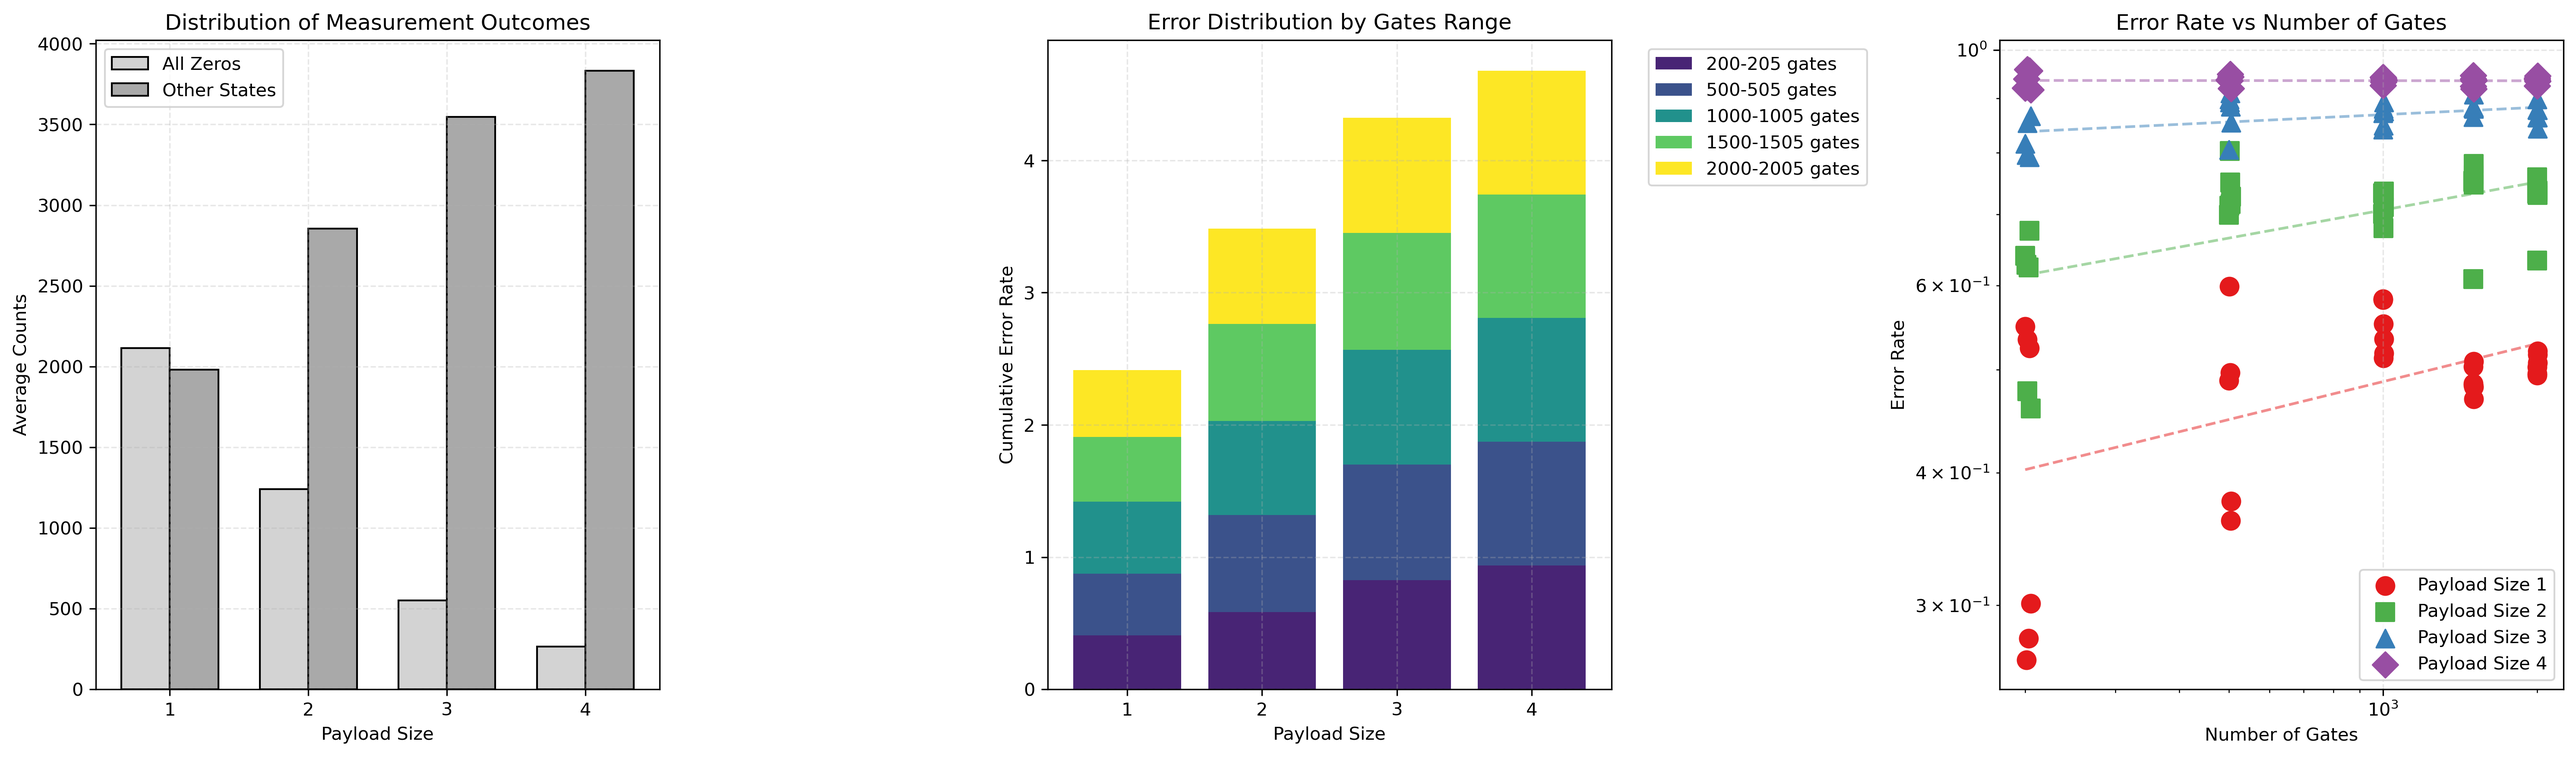
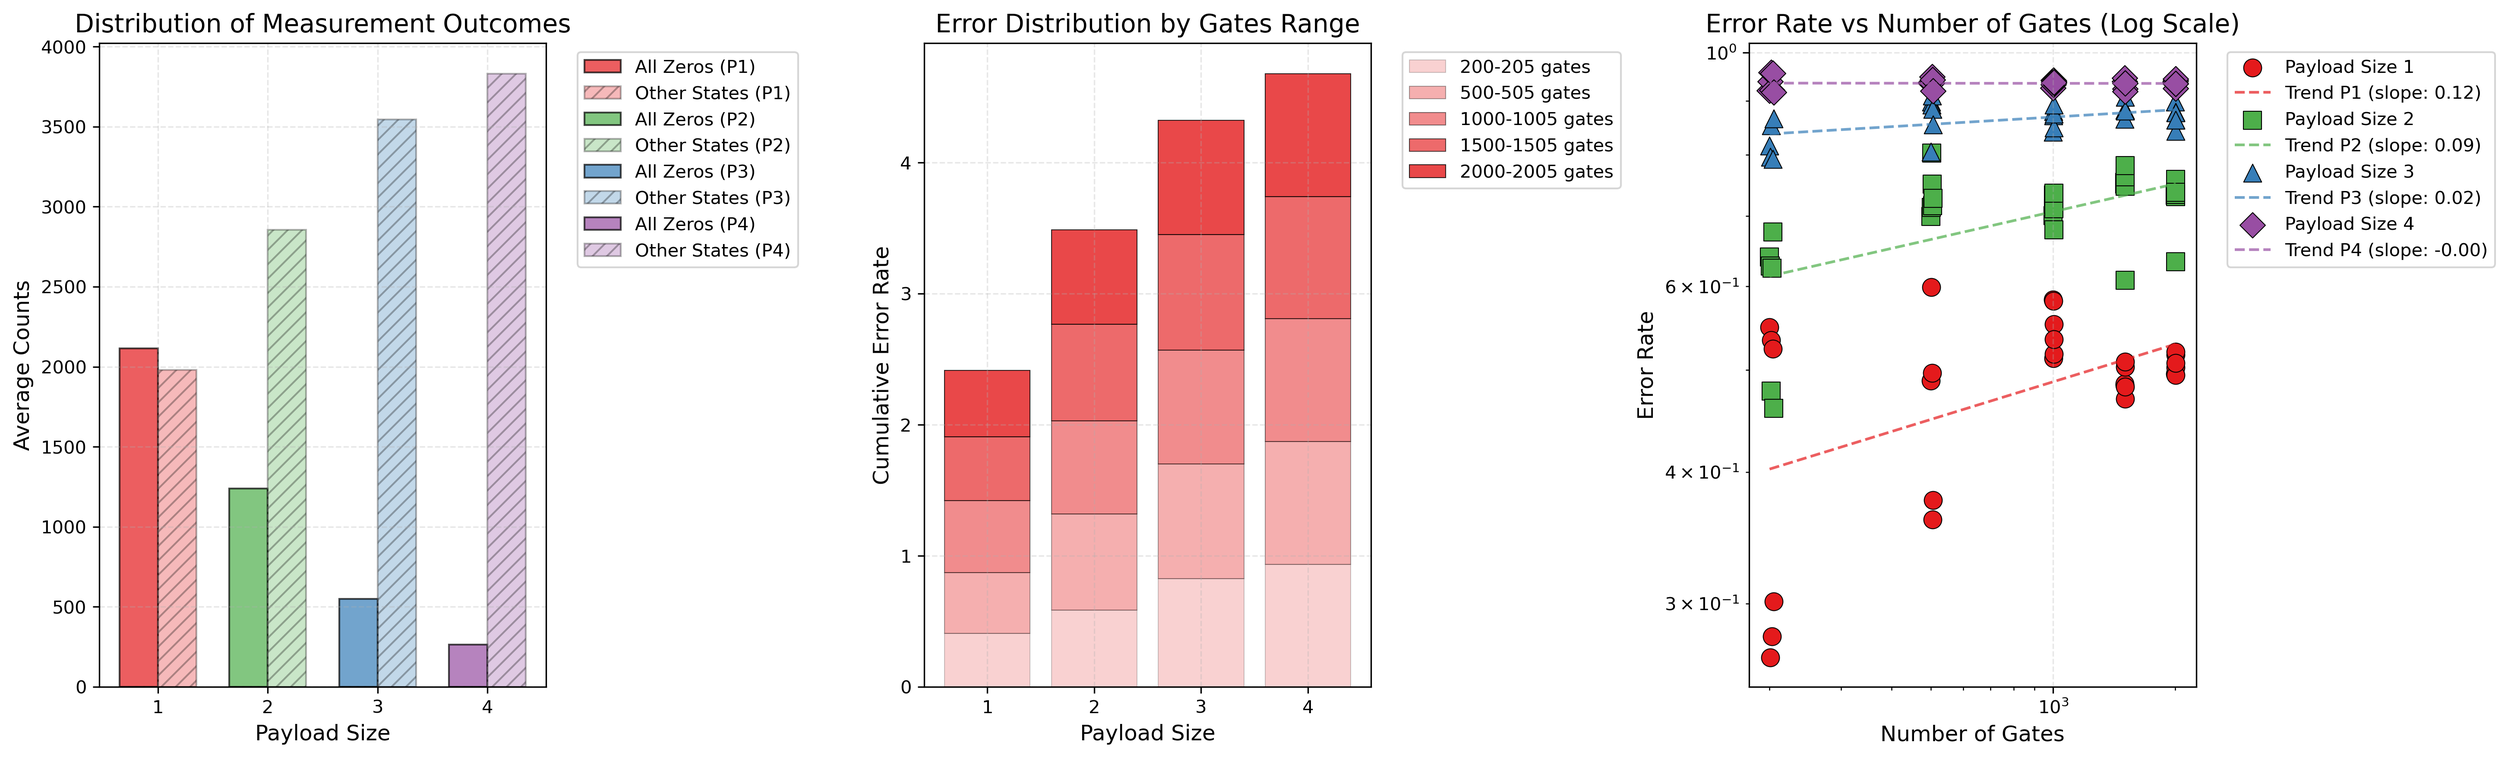
improve colors for the graphs

diff --git a/experiment/results/experiment_analysis.py b/experiment/results/experiment_analysis.py
@@ -321,7 +321,7 @@ def plot_circuit_complexity(df):
 
 def plot_error_analysis(df):
     """
-    Create comprehensive error analysis plots:
+    Create comprehensive error analysis plots using colorblind-friendly ColorBrewer palette:
     1. Bar plot comparing counts_zeros vs counts_ones
     2. Stacked bar chart of error distribution
     3. Error rate in log scale
@@ -342,37 +342,48 @@ def plot_error_analysis(df):
     zeros_means = [df[df['payload_size'] == size]['counts_zeros'].mean() for size in payload_sizes]
     ones_means = [df[df['payload_size'] == size]['counts_ones'].mean() for size in payload_sizes]
     
-    # Create grouped bars
-    ax1.bar(x - bar_width/2, zeros_means, bar_width, label='All Zeros', 
-            color='lightgray', edgecolor='black')
-    ax1.bar(x + bar_width/2, ones_means, bar_width, label='Other States',
-            color='darkgray', edgecolor='black')
+    # Create bars for each payload size with ColorBrewer colors
+    for i, size in enumerate(payload_sizes):
+        # Create grouped bars with matching colors
+        ax1.bar(x[i] - bar_width/2, zeros_means[i], bar_width,
+                color=COLORBREWER_PALETTE[size], alpha=0.7,
+                edgecolor='black', linewidth=1,
+                label=f'All Zeros (P{size})')
+        ax1.bar(x[i] + bar_width/2, ones_means[i], bar_width,
+                color=COLORBREWER_PALETTE[size], alpha=0.3,
+                edgecolor='black', linewidth=1, hatch='///',
+                label=f'Other States (P{size})')
     
-    ax1.set_xlabel('Payload Size')
-    ax1.set_ylabel('Average Counts')
-    ax1.set_title('Distribution of Measurement Outcomes')
+    ax1.set_xlabel('Payload Size', fontsize=12)
+    ax1.set_ylabel('Average Counts', fontsize=12)
+    ax1.set_title('Distribution of Measurement Outcomes', fontsize=14)
     ax1.set_xticks(x)
     ax1.set_xticklabels(payload_sizes)
-    ax1.legend()
+    ax1.legend(bbox_to_anchor=(1.05, 1), loc='upper left')
     ax1.grid(True, linestyle='--', alpha=0.3)
 
     # 2. Stacked bar chart showing error distribution
     bottom = np.zeros(len(payload_sizes))
+    gate_ranges = [(200, 205), (500, 505), (1000, 1005), (1500, 1505), (2000, 2005)]
     
-    for gate_range in [(200, 205), (500, 505), (1000, 1005), (1500, 1505), (2000, 2005)]:
+    for i, gate_range in enumerate(gate_ranges):
         errors = []
         for size in payload_sizes:
             mask = (df['payload_size'] == size) & (df['num_gates'].between(gate_range[0], gate_range[1]))
             error_rate = 1 - df[mask]['success_rate'].mean() if not df[mask].empty else 0
             errors.append(error_rate)
         
-        ax2.bar(x, errors, bottom=bottom, label=f'{gate_range[0]}-{gate_range[1]} gates',
-                color=plt.cm.viridis(gate_range[0]/2000))
+        # Use ColorBrewer colors with varying alpha for different gate ranges
+        ax2.bar(x, errors, bottom=bottom,
+                label=f'{gate_range[0]}-{gate_range[1]} gates',
+                color=COLORBREWER_PALETTE[1],  # Use red as base color
+                alpha=0.2 + (i * 0.15),  # Increasing alpha for each range
+                edgecolor='black', linewidth=0.5)
         bottom += errors
 
-    ax2.set_xlabel('Payload Size')
-    ax2.set_ylabel('Cumulative Error Rate')
-    ax2.set_title('Error Distribution by Gates Range')
+    ax2.set_xlabel('Payload Size', fontsize=12)
+    ax2.set_ylabel('Cumulative Error Rate', fontsize=12)
+    ax2.set_title('Error Distribution by Gates Range', fontsize=14)
     ax2.set_xticks(x)
     ax2.set_xticklabels(payload_sizes)
     ax2.legend(bbox_to_anchor=(1.05, 1), loc='upper left')
@@ -390,11 +401,13 @@ def plot_error_analysis(df):
         
         error_rates = 1 - grouped_data['success_rate']
         
+        # Scatter plot with ColorBrewer colors and markers
         ax3.scatter(grouped_data['num_gates'], error_rates,
                    color=COLORBREWER_PALETTE[payload_size],
                    marker=MARKER_STYLES[payload_size],
                    s=100,
-                   label=f'Payload Size {payload_size}')
+                   label=f'Payload Size {payload_size}',
+                   edgecolor='black', linewidth=0.5)
         
         # Add trend line
         z = np.polyfit(np.log10(grouped_data['num_gates']), np.log10(error_rates), 1)
@@ -402,19 +415,25 @@ def plot_error_analysis(df):
         x_trend = np.linspace(grouped_data['num_gates'].min(), grouped_data['num_gates'].max(), 100)
         y_trend = 10**p(np.log10(x_trend))
         
+        # Plot trend line with matching color
         ax3.plot(x_trend, y_trend, 
                 color=COLORBREWER_PALETTE[payload_size],
-                linestyle='--', alpha=0.5)
+                linestyle='--', alpha=0.7,
+                label=f'Trend P{payload_size} (slope: {z[0]:.2f})')
 
-    ax3.set_xlabel('Number of Gates')
-    ax3.set_ylabel('Error Rate')
-    ax3.set_title('Error Rate vs Number of Gates')
+    ax3.set_xlabel('Number of Gates', fontsize=12)
+    ax3.set_ylabel('Error Rate', fontsize=12)
+    ax3.set_title('Error Rate vs Number of Gates (Log Scale)', fontsize=14)
     ax3.set_yscale('log')
     ax3.set_xscale('log')
     ax3.grid(True, linestyle='--', alpha=0.3)
-    ax3.legend()
+    ax3.legend(bbox_to_anchor=(1.05, 1), loc='upper left')
 
+    # Adjust layout to accommodate legends
     plt.tight_layout()
+    plt.subplots_adjust(right=0.85)
+    
+    # Save figure
     plt.savefig('error_analysis.png', dpi=300, bbox_inches='tight')
     # plt.close()
 
